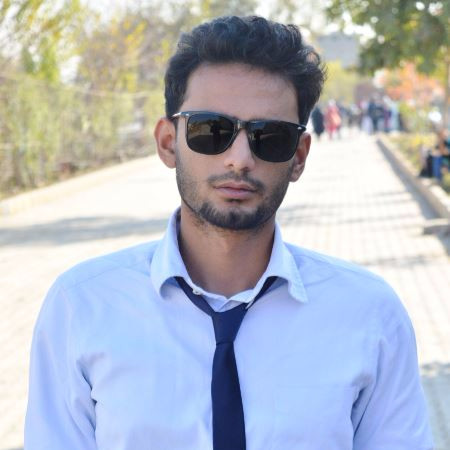
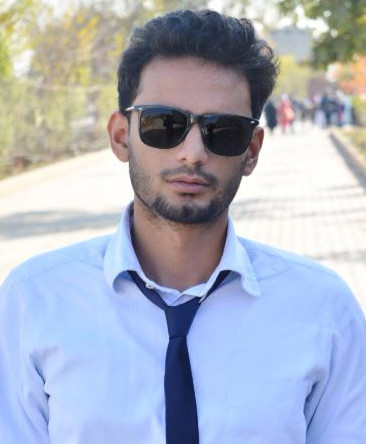
about page

diff --git a/src/components/about/styles.css b/src/components/about/styles.css
@@ -1,0 +1,111 @@
+.about__container {
+    display: grid;
+    grid-template-columns: 35% 50%;
+    gap: 15%;
+
+}
+
+.about__me {
+    width: max-content;
+    border-radius: 2rem;
+    background: linear-gradient(45deg,
+            transparent,
+            var(--color-primary),
+            transparent);
+    display: grid;
+    place-items: center;
+    /* overflow: hidden; */
+}
+
+.about__me-img {
+    border-radius: 2rem;
+    overflow: hidden;
+    transform: rotate(10deg);
+    transition: var(--transition)
+}
+
+.about__me-img:hover {
+    transform: rotate(0deg);
+}
+
+.about__cards {
+    display: grid;
+    grid-template-columns: repeat(3, 1fr);
+    gap: 1.5rem;
+}
+
+.about__card {
+    background: var(--color-bg-variant);
+    border: 1px solid transparent;
+    border-radius: 1rem;
+    padding: 2rem;
+    text-align: center;
+    transition: var(--transition);
+}
+
+.about__card:hover {
+    background: transparent;
+    border-color: var(--color-primary-variant);
+}
+
+.about__icon {
+    color: var(--color-primary);
+    font-size: 1.4rem;
+    margin-bottom: 1rem;
+}
+
+.about__card h5 {
+    font-size: 0.9rem;
+}
+
+.about__card small {
+    font-size: 0.7rem;
+    color: var(--color-light);
+}
+
+.about__content p {
+    font-size: 1rem;
+    margin: 2rem 0 2rem;
+    color: var(--color-light);
+}
+
+@media screen and (max-width: 1024px) {
+    .about__container {
+        grid-template-columns: 1fr;
+        gap: 0
+    }
+
+    .about__me {
+        width: 50%;
+        margin: 2rem auto 4rem;
+    }
+
+    .about__content {
+        margin: 1rem 0 1.5rem;
+    }
+}
+
+/* ================ MEDIA QUERIES SMALL DEVICES) ================= */
+@media screen and (max-width: 600px) {
+    .about__me {
+        width: 65%;
+        margin: 0 auto 3rem;
+    }
+
+    .about__cards {
+        grid-template-columns: 1fr;
+    }
+
+    .about__content {
+        text-align: center;
+    }
+
+    .about__content p {
+        margin: 1.5rem 0;
+    }
+
+    .about__content p {
+        margin: 2rem 0
+    }
+
+}

diff --git a/src/components/about/About.tsx b/src/components/about/About.tsx
@@ -1,8 +1,57 @@
 import React from 'react'
 import './styles.css'
+import me from '../../assets/avatar.jpeg'
+import { useUserDataSet } from '../../hooks/useUserDataSet'
+import { BiAward } from 'react-icons/bi'
+import { AiOutlineProject } from 'react-icons/ai'
 const About = () => {
+  const data = useUserDataSet()
+
   return (
-    <section id="about">About</section>
+    <section id="about">
+      <h5>Get to know</h5>
+      <h2>About me</h2>
+      <div className="container about__container">
+        <div className="about__me">
+          <div className="about__me-img">
+            <img src={me} alt="myimg" />
+          </div>
+        </div>
+
+        <div className="about__content">
+          <div className="about__cards">
+            <article className="about__card">
+              <BiAward className='about__icon' />
+              <h5>Experience</h5>
+              <small>{data.exp}</small>
+            </article>
+            <article className="about__card">
+              <AiOutlineProject className='about__icon' />
+              <h5>Projects</h5>
+              <small>{data.project_count}</small>
+            </article>
+            <article className="about__card">
+              <BiAward className='about__icon' />
+              <h5>Experience</h5>
+              <small>{data.exp}</small>
+            </article>
+
+          </div>
+
+          <p>
+            {data.aboutMe}
+          </p>
+
+          <button className="btn btn-primary">
+            Let talk!
+          </button>
+        </div>
+
+
+
+
+      </div>
+    </section>
   )
 }
 

diff --git a/src/components/nav/Nav.tsx b/src/components/nav/Nav.tsx
@@ -3,10 +3,10 @@ import './styles.css'
 import { BiHomeAlt, BiUserCircle, BiBookAlt, BiMessageDots } from 'react-icons/bi'
 import { AiOutlineProject } from 'react-icons/ai'
 const Nav = () => {
-    const [activeLink, setActiveLink] = useState("")
+    const [activeLink, setActiveLink] = useState("#")
 
     return (
-        <nav>
+        <nav className='nav_right'>
             <a className={activeLink === "#" ? "active" : ""} href="#" onClick={() => setActiveLink("#")}><BiHomeAlt /></a>
             <a className={activeLink === "about" ? "active" : ""} href="#about" onClick={() => setActiveLink("about")}><BiUserCircle /></a>
             <a className={activeLink === "experience" ? "active" : ""} href="#experience" onClick={() => setActiveLink("experience")}> <BiBookAlt /></a>

diff --git a/src/components/nav/styles.css b/src/components/nav/styles.css
@@ -1,8 +1,8 @@
 nav {
-    background-color: rgba(0, 0, 0, 0.5);
+    background-color: rgba(0, 0, 0, 0.3);
     width: max-content;
     display: block;
-    padding: 0.7rem 1.7rem;
+    padding: 0.3rem 1.7rem;
     z-index: 2;
     position: fixed;
     left: 50%;
@@ -11,9 +11,10 @@ nav {
     display: flex;
     gap: 0.8rem;
     border-radius: 3rem;
-    backdrop-filter: blue(15px);
-
+    backdrop-filter: blur(12px);
 }
+
+
 
 nav a {
     background: transparent;
@@ -29,5 +30,5 @@ nav a:hover {
 }
 
 nav a.active {
-    background-color: red;
+    background-color: var(--color-primary);
 }

diff --git a/src/App.tsx b/src/App.tsx
@@ -1,3 +1,4 @@
+import About from "./components/about/About"
 import Contact from "./components/contact/Contact"
 import Experience from "./components/experience/Experience"
 import Header from "./components/header/Header"
@@ -10,6 +11,7 @@ function App() {
     <div>
       <Header />
       <Nav />
+      <About />
       <Experience />
       <Projects />
       <Contact />

diff --git a/src/index.css b/src/index.css
@@ -22,7 +22,7 @@
   --container-width-md: 86%;
   --container-width-sm: 90%;
 
-  --transition: all 400 ease
+  --transition: all 0.4s ease
 }
 
 html {
@@ -51,7 +51,7 @@ h2,
 h3,
 h4,
 h5 {
-  font-size: 2.5rem;
+  font-size: 2rem;
 }
 
 section {
